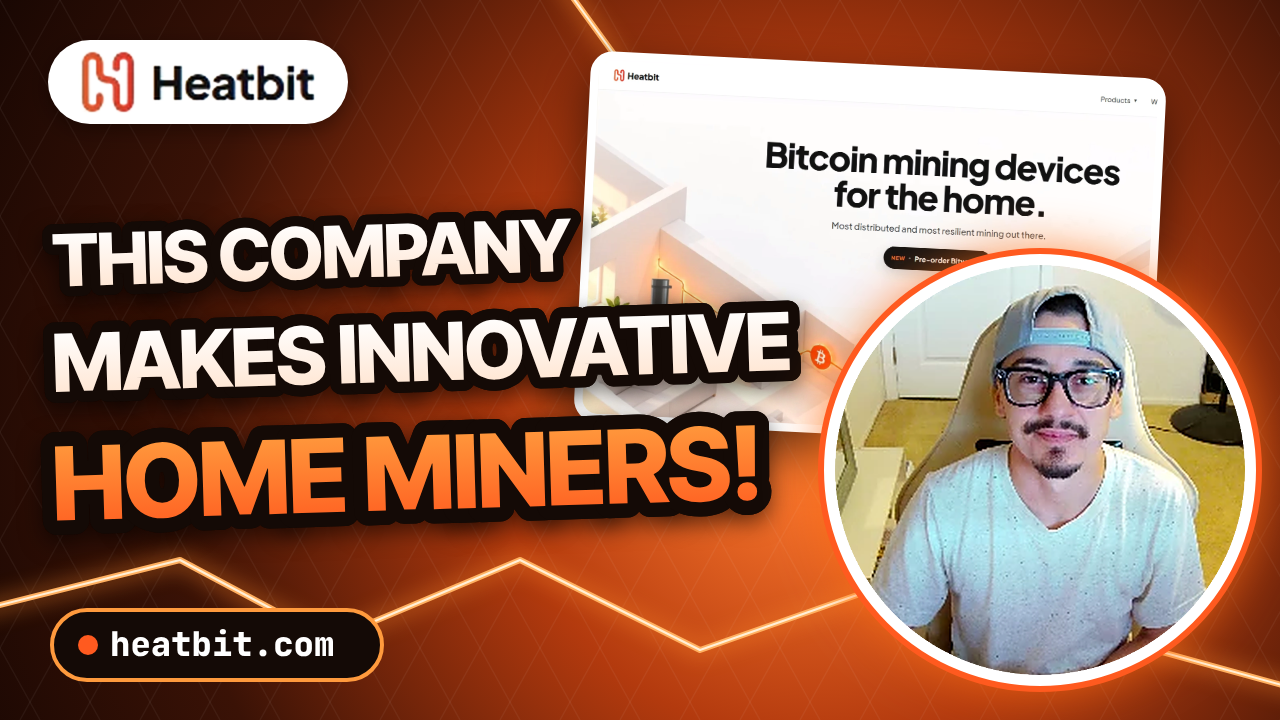
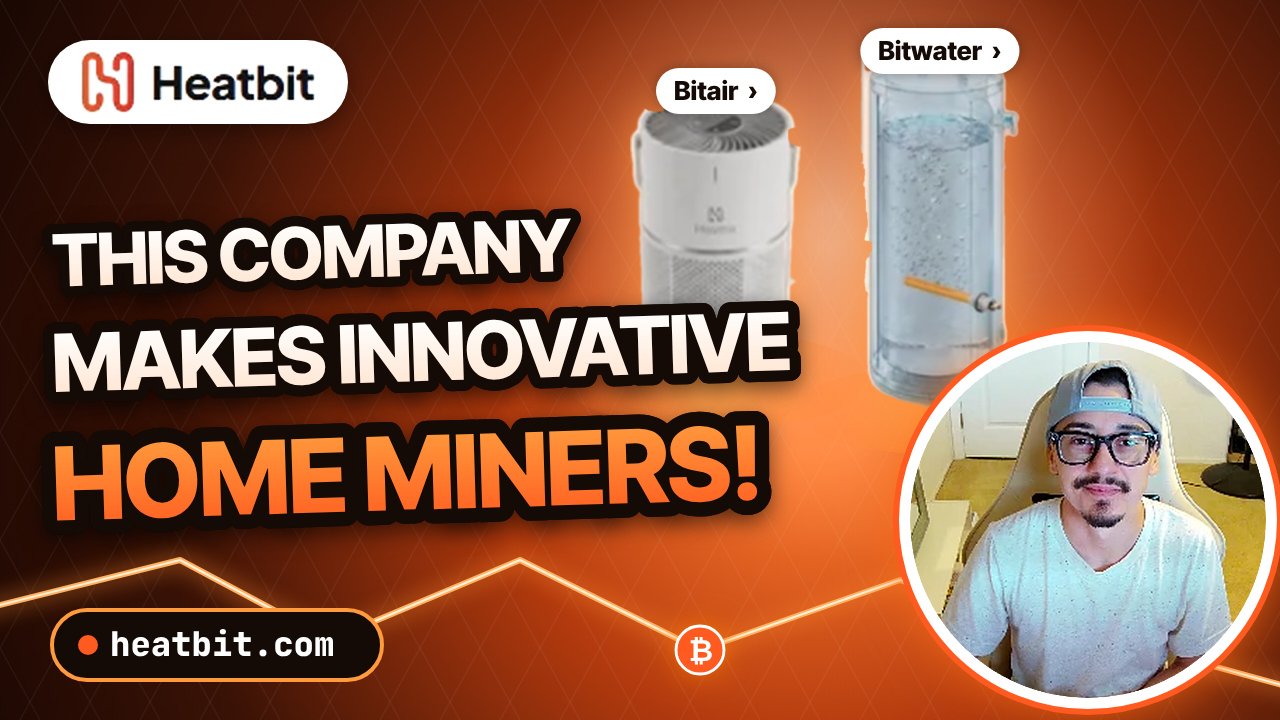
Heatbit thumbnail: Bitair + Bitwater products replace the site screenshot
Claude-Session: https://claude.ai/code/session_01NSJvdmHsHoazKiuuGVQfMY

diff --git a/story/heatbit/thumb.html b/story/heatbit/thumb.html
@@ -11,7 +11,7 @@
   const D = (s) => `900 ${s}px "Inter Tight", sans-serif`, M = (w, s) => `${w} ${s}px "JetBrains Mono", monospace`;
   await Promise.all([document.fonts.load(D(100)), document.fonts.load(M(800, 30))]);
   const img = (src) => new Promise((r) => { const i = new Image(); i.onload = () => r(i); i.src = src; });
-  const [site, me, logo] = await Promise.all([img('site.png'), img('kal_face.png'), img('logo.png')]);
+  const [bwater, bair, me, logo] = await Promise.all([img('bitwater.png'), img('bitair.png'), img('kal_face.png'), img('logo.png')]);
   const rr = (x, y, w, h, r) => { c.beginPath(); c.roundRect(x, y, w, h, r); };
   const sticker = (im, x, y, w, h, ring, glow) => { const off = document.createElement('canvas'); off.width = W; off.height = H; const o = off.getContext('2d');
     for (let a = 0; a < 28; a++) o.drawImage(im, x + Math.cos(a / 28 * TAU) * ring, y + Math.sin(a / 28 * TAU) * ring, w, h);
@@ -25,13 +25,18 @@
   const bg = c.createRadialGradient(820, 420, 40, 820, 420, 980); bg.addColorStop(0, '#FF7A2E'); bg.addColorStop(0.3, '#B33A0E'); bg.addColorStop(0.65, '#3A1206'); bg.addColorStop(1, '#120502'); c.fillStyle = bg; c.fillRect(0, 0, W, H);
   c.strokeStyle = 'rgba(255,255,255,0.05)'; c.lineWidth = 1.5; for (let i = -20; i < 40; i++) { c.beginPath(); c.moveTo(i * 60, 0); c.lineTo(i * 60 - 400, H); c.stroke(); c.beginPath(); c.moveTo(i * 60, 0); c.lineTo(i * 60 + 400, H); c.stroke(); }
   const heat = (pts) => { c.save(); c.lineJoin = 'round'; c.lineCap = 'round'; c.shadowColor = '#FF8A2A'; c.shadowBlur = 22; c.strokeStyle = '#FFB060'; c.lineWidth = 6; c.beginPath(); pts.forEach(([x, y], i) => i ? c.lineTo(x, y) : c.moveTo(x, y)); c.stroke(); c.shadowBlur = 0; c.strokeStyle = '#FFF0D8'; c.lineWidth = 2; c.stroke(); c.restore(); };
-  heat([[-20, 610], [180, 560], [330, 640], [520, 560], [700, 650], [900, 580], [1300, 690]]); heat([[560, -20], [640, 90], [600, 160], [700, 240]]);
+  heat([[-20, 610], [180, 560], [330, 640], [520, 560], [700, 650], [900, 580], [1300, 690]]);
   const node = (x, y, r) => { c.save(); c.shadowColor = 'rgba(255,120,0,0.9)'; c.shadowBlur = 30; c.beginPath(); c.arc(x, y, r, 0, TAU); c.fillStyle = '#FF5A1F'; c.fill(); c.shadowBlur = 0; c.lineWidth = r * 0.12; c.strokeStyle = '#fff'; c.stroke(); c.font = D(r * 1.25); c.fillStyle = '#fff'; c.textAlign = 'center'; c.textBaseline = 'middle'; c.fillText('₿', x + 1, y + r * 0.08); c.restore(); };
-  node(900, 580, 22);
-  // ---- the real heatbit.com homepage as a tilted screenshot card
-  c.save(); c.translate(870, 250); c.rotate(0.05); const cw = 560, ch = cw * site.height / site.width;
-  c.shadowColor = 'rgba(0,0,0,0.6)'; c.shadowBlur = 50; c.shadowOffsetY = 20; rr(-cw / 2 - 8, -ch / 2 - 8, cw + 16, ch + 16, 22); c.fillStyle = '#fff'; c.fill(); c.shadowColor = 'transparent';
-  c.save(); rr(-cw / 2, -ch / 2, cw, ch, 16); c.clip(); c.drawImage(site, -cw / 2, -ch / 2, cw, ch); c.restore(); c.restore();
+  node(700, 650, 24);
+  // ---- Heatbit's products: Bitair (air purifier miner) and Bitwater (water heater miner), on a warm glow
+  const product = (im, x, y, h, label) => { const w = h * im.width / im.height;
+    const fl = c.createRadialGradient(x + w / 2, y + h, 10, x + w / 2, y + h, w * 0.9); fl.addColorStop(0, 'rgba(255,170,80,0.75)'); fl.addColorStop(1, 'rgba(255,120,40,0)'); c.fillStyle = fl; c.beginPath(); c.ellipse(x + w / 2, y + h, w * 0.9, w * 0.28, 0, 0, TAU); c.fill();
+    c.save(); c.shadowColor = 'rgba(255,150,60,0.7)'; c.shadowBlur = 45; c.drawImage(im, x, y, w, h); c.restore(); c.drawImage(im, x, y, w, h);
+    c.font = '800 26px Geist, "Inter Tight", sans-serif'; const lw = c.measureText(label + '  ›').width + 36; rr(x + w / 2 - lw / 2, y - 22, lw, 46, 23); c.fillStyle = '#fff'; c.shadowColor = 'rgba(0,0,0,0.35)'; c.shadowBlur = 14; c.fill(); c.shadowBlur = 0;
+    c.fillStyle = INK; c.textAlign = 'center'; c.textBaseline = 'middle'; c.fillText(label + '  ›', x + w / 2, y + 2); c.textAlign = 'left'; };
+  { const st = c.createRadialGradient(830, 230, 20, 830, 230, 330); st.addColorStop(0, 'rgba(255,236,210,0.55)'); st.addColorStop(1, 'rgba(255,200,150,0)'); c.fillStyle = st; c.fillRect(0, 0, W, H); }
+  product(bair, 630, 90, 290, 'Bitair');
+  product(bwater, 860, 50, 360, 'Bitwater');
 
   // ---- Heatbit logo pill
   c.save(); rr(48, 40, 300, 84, 42); c.fillStyle = '#fff'; c.shadowColor = 'rgba(0,0,0,0.35)'; c.shadowBlur = 20; c.shadowOffsetY = 6; c.fill(); c.restore();
@@ -47,7 +52,7 @@
   c.font = M(800, 34); c.fillStyle = '#fff'; c.textBaseline = 'middle'; c.fillText('heatbit.com', 110, 647); c.restore();
 
   // ---- Kal (facecam photo) in a round badge, white ring + orange glow
-  { const R = 205, x = 1040, y = 470; c.save(); c.shadowColor = 'rgba(255,110,20,0.8)'; c.shadowBlur = 50; c.beginPath(); c.arc(x, y, R + 14, 0, TAU); c.fillStyle = '#fff'; c.fill(); c.restore();
+  { const R = 178, x = 1088, y = 520; c.save(); c.shadowColor = 'rgba(255,110,20,0.8)'; c.shadowBlur = 50; c.beginPath(); c.arc(x, y, R + 14, 0, TAU); c.fillStyle = '#fff'; c.fill(); c.restore();
     c.save(); c.beginPath(); c.arc(x, y, R, 0, TAU); c.clip(); c.drawImage(me, x - R, y - R, 2 * R, 2 * R); c.restore();
     c.beginPath(); c.arc(x, y, R + 14, 0, TAU); c.lineWidth = 6; c.strokeStyle = OR; c.stroke(); }
   document.body.dataset.ready = '1';
